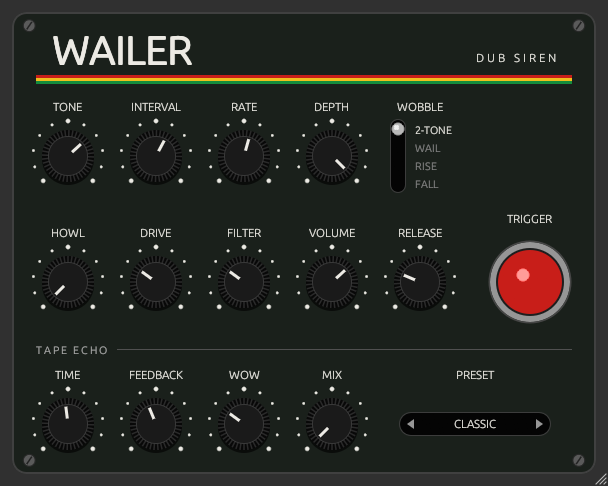
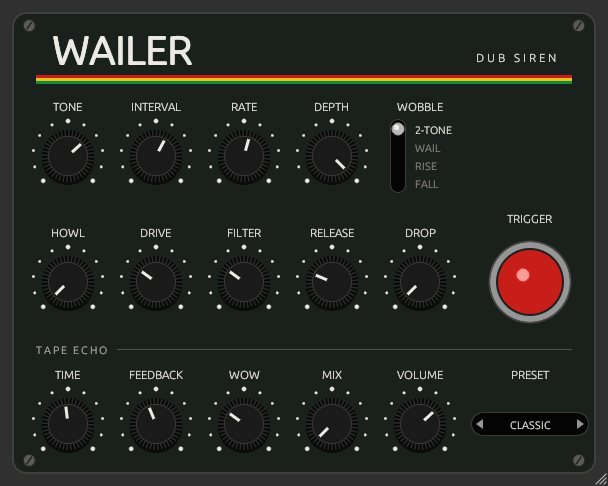
Add Drop: pitch glides down over the release
Volume moves after the echo and to the bottom row to make room.

diff --git a/src/lib.rs b/src/lib.rs
@@ -7,8 +7,10 @@
 //!    loop squeals on its own as Howl goes up.
 //! 3. Drive stage borrowed from Rodent: LM308 RAT gain stage (bandwidth + slew limited, rail
 //!    clipping) into a 1N914 diode clipper, then the RAT's passive filter.
-//! 4. Gate envelope and volume. MIDI notes or the Trigger button open the gate.
+//! 4. Gate envelope. MIDI notes or the Trigger button open the gate; on release the pitch can
+//!    glide down by Drop semitones over the Release time.
 //! 5. Tape echo, Space Echo style: darkening, saturating repeats that run away past 100% feedback.
+//! 6. Volume.
 //!
 //! Oscillator and drive stage run at 4x oversampling to keep aliasing down.
 
@@ -96,6 +98,7 @@ struct Preset {
     filter: f32,
     volume_db: f32,
     release: f32,
+    drop: f32,
     echo_time: f32,
     echo_feedback: f32,
     echo_wow: f32,
@@ -107,19 +110,19 @@ struct Preset {
 #[rustfmt::skip]
 const PRESETS: &[Preset] = &[
     Preset { name: "Classic",      tone:  700.0, interval:   5.0, rate:  3.00, depth: 1.0, shape: Shape::Square,   howl: 0.00, drive: 0.30, filter: 0.30,
-             volume_db:  0.0, release: 0.03, echo_time: 0.375, echo_feedback: 0.50, echo_wow: 0.3, echo_mix: 0.0 },
+             volume_db:  0.0, release: 0.03, drop:  0.0, echo_time: 0.375, echo_feedback: 0.50, echo_wow: 0.3, echo_mix: 0.0 },
     Preset { name: "Sound System", tone:  650.0, interval:   7.0, rate:  2.50, depth: 1.0, shape: Shape::Square,   howl: 0.10, drive: 0.40, filter: 0.35,
-             volume_db:  0.0, release: 0.60, echo_time: 0.375, echo_feedback: 0.65, echo_wow: 0.3, echo_mix: 0.6 },
+             volume_db:  0.0, release: 0.60, drop:  0.0, echo_time: 0.375, echo_feedback: 0.65, echo_wow: 0.3, echo_mix: 0.6 },
     Preset { name: "Police Wail",  tone:  600.0, interval:  12.0, rate:  0.50, depth: 1.0, shape: Shape::Triangle, howl: 0.00, drive: 0.20, filter: 0.20,
-             volume_db: -0.5, release: 0.30, echo_time: 0.300, echo_feedback: 0.40, echo_wow: 0.2, echo_mix: 0.4 },
+             volume_db: -0.5, release: 0.30, drop:  0.0, echo_time: 0.300, echo_feedback: 0.40, echo_wow: 0.2, echo_mix: 0.4 },
     Preset { name: "Laser",        tone: 1800.0, interval: -24.0, rate: 12.00, depth: 1.0, shape: Shape::Fall,     howl: 0.00, drive: 0.50, filter: 0.10,
-             volume_db: -1.0, release: 0.15, echo_time: 0.250, echo_feedback: 0.60, echo_wow: 0.3, echo_mix: 0.5 },
+             volume_db: -1.0, release: 0.15, drop: 24.0, echo_time: 0.250, echo_feedback: 0.60, echo_wow: 0.3, echo_mix: 0.5 },
     Preset { name: "Rising Howl",  tone:  400.0, interval:  12.0, rate:  0.80, depth: 1.0, shape: Shape::Rise,     howl: 0.75, drive: 0.60, filter: 0.40,
-             volume_db:  1.0, release: 1.00, echo_time: 0.500, echo_feedback: 0.70, echo_wow: 0.4, echo_mix: 0.5 },
+             volume_db:  1.0, release: 1.00, drop:  0.0, echo_time: 0.500, echo_feedback: 0.70, echo_wow: 0.4, echo_mix: 0.5 },
     Preset { name: "Dread Drop",   tone: 1200.0, interval: -19.0, rate:  0.35, depth: 1.0, shape: Shape::Fall,     howl: 0.20, drive: 0.70, filter: 0.50,
-             volume_db:  0.5, release: 2.00, echo_time: 0.600, echo_feedback: 0.85, echo_wow: 0.5, echo_mix: 0.6 },
+             volume_db:  0.5, release: 2.00, drop: 24.0, echo_time: 0.600, echo_feedback: 0.85, echo_wow: 0.5, echo_mix: 0.6 },
     Preset { name: "Runaway",      tone:  900.0, interval:   5.0, rate:  6.00, depth: 1.0, shape: Shape::Square,   howl: 0.30, drive: 0.50, filter: 0.30,
-             volume_db:  0.5, release: 0.30, echo_time: 0.200, echo_feedback: 1.10, echo_wow: 0.6, echo_mix: 0.7 },
+             volume_db:  0.5, release: 0.30, drop:  0.0, echo_time: 0.200, echo_feedback: 1.10, echo_wow: 0.6, echo_mix: 0.7 },
 ];
 
 /// Topology-preserving one-pole filter, gives both low-pass and high-pass outputs.
@@ -234,6 +237,8 @@ fn release_coeff(secs: f32, fs: f32) -> f32 {
 struct Settings {
     tone: f32,
     interval: f32,
+    /// Semitones below the wobbling pitch, from Drop
+    bend: f32,
     rate: f32,
     depth: f32,
     shape: Shape,
@@ -246,6 +251,7 @@ struct Settings {
 struct Coeffs {
     tone: f32,
     interval: f32,
+    bend: f32,
     lfo_step: f32,
     depth: f32,
     shape: Shape,
@@ -275,6 +281,7 @@ impl Coeffs {
         Self {
             tone: s.tone,
             interval: s.interval,
+            bend: s.bend,
             lfo_step: s.rate / fs,
             depth: s.depth,
             shape: s.shape,
@@ -324,7 +331,7 @@ impl Voice {
     fn process(&mut self, c: &Coeffs) -> f32 {
         let pos = c.shape.at(self.lfo_phase) * c.depth;
         self.lfo_phase = (self.lfo_phase + c.lfo_step).fract();
-        let freq = c.tone * 2f32.powf(c.interval * pos / 12.0);
+        let freq = c.tone * 2f32.powf((c.interval * pos - c.bend) / 12.0);
         let dt = (freq / c.fs_os).min(0.5);
 
         let mut out = 0.0;
@@ -418,6 +425,8 @@ struct Wailer {
     notes: u8,
     gate: bool,
     env: f32,
+    /// 0 while the gate is open, ramps to 1 over the Release time after it closes
+    drop_pos: f32,
 }
 
 #[derive(Params)]
@@ -448,6 +457,8 @@ struct WailerParams {
     volume: FloatParam,
     #[id = "release"]
     release: FloatParam,
+    #[id = "drop"]
+    drop: FloatParam,
     #[id = "echo-time"]
     echo_time: FloatParam,
     #[id = "echo-feedback"]
@@ -461,7 +472,7 @@ struct WailerParams {
 impl WailerParams {
     /// Every float param paired with its value in `preset`, shared by the GUI's preset matching
     /// and applying and by the tests.
-    fn preset_values(&self, p: &Preset) -> [(&FloatParam, f32); 13] {
+    fn preset_values(&self, p: &Preset) -> [(&FloatParam, f32); 14] {
         [
             (&self.tone, p.tone),
             (&self.interval, p.interval),
@@ -472,6 +483,7 @@ impl WailerParams {
             (&self.filter, p.filter),
             (&self.volume, util::db_to_gain(p.volume_db)),
             (&self.release, p.release),
+            (&self.drop, p.drop),
             (&self.echo_time, p.echo_time),
             (&self.echo_feedback, p.echo_feedback),
             (&self.echo_wow, p.echo_wow),
@@ -551,6 +563,17 @@ impl Default for WailerParams {
             )
             .with_unit(" s")
             .with_value_to_string(formatters::v2s_f32_rounded(2)),
+            // Off by default so projects from before Drop sound the same
+            drop: FloatParam::new(
+                "Drop",
+                0.0,
+                FloatRange::Linear {
+                    min: 0.0,
+                    max: 36.0,
+                },
+            )
+            .with_unit(" st")
+            .with_value_to_string(formatters::v2s_f32_rounded(1)),
             echo_time: FloatParam::new(
                 "Echo Time",
                 0.375,
@@ -590,6 +613,7 @@ impl Default for Wailer {
             notes: 0,
             gate: false,
             env: 0.0,
+            drop_pos: 0.0,
         }
     }
 }
@@ -646,6 +670,7 @@ impl Plugin for Wailer {
         self.notes = 0;
         self.gate = false;
         self.env = 0.0;
+        self.drop_pos = 0.0;
     }
 
     fn process(
@@ -677,9 +702,23 @@ impl Plugin for Wailer {
             }
             self.gate = gate;
 
+            let release = p.release.value();
+            self.env = env_step(
+                self.env,
+                gate,
+                attack,
+                release_coeff(release, self.sample_rate),
+            );
+            self.drop_pos = if gate {
+                0.0
+            } else {
+                (self.drop_pos + 1.0 / (release * self.sample_rate)).min(1.0)
+            };
+
             let settings = Settings {
                 tone: p.tone.smoothed.next(),
                 interval: p.interval.smoothed.next(),
+                bend: p.drop.value() * self.drop_pos,
                 rate: p.rate.smoothed.next(),
                 depth: p.depth.smoothed.next(),
                 shape: p.shape.value(),
@@ -687,15 +726,11 @@ impl Plugin for Wailer {
                 drive: p.drive.smoothed.next(),
                 filter: p.filter.smoothed.next(),
             };
-            let volume = p.volume.smoothed.next();
-            let release = release_coeff(p.release.value(), self.sample_rate);
-            self.env = env_step(self.env, gate, attack, release);
 
             // Keep running while silent so the howl loop and filters stay warm
             let dry = self
                 .voice
                 .process(&Coeffs::new(&settings, self.sample_rate))
-                * volume
                 * self.env;
             // Like a mixer send: the dry siren stays at full level, Mix adds the repeats
             let wet = self.echo.process(
@@ -704,7 +739,8 @@ impl Plugin for Wailer {
                 p.echo_feedback.smoothed.next(),
                 p.echo_wow.smoothed.next(),
             );
-            let y = dry + p.echo_mix.smoothed.next() * wet;
+            // Volume after the echo, so it doesn't change how hard the echo saturates
+            let y = (dry + p.echo_mix.smoothed.next() * wet) * p.volume.smoothed.next();
             for sample in frame.iter_mut() {
                 *sample = y;
             }
@@ -746,6 +782,7 @@ mod tests {
         Settings {
             tone: 700.0,
             interval: 5.0,
+            bend: 0.0,
             rate: 3.0,
             depth: 1.0,
             shape: Shape::Square,
@@ -846,6 +883,21 @@ mod tests {
         assert!(start > 1.5 * end, "fall {start} -> {end}");
         let (start, end) = sweep(Shape::Triangle);
         assert!((start / end - 1.0).abs() < 0.1, "wail {start} -> {end}");
+    }
+
+    #[test]
+    fn bend_drops_the_pitch() {
+        // Drop at full travel: 12 semitones under tone A is half the frequency
+        let s = Settings {
+            tone: 500.0,
+            bend: 12.0,
+            depth: 0.0,
+            drive: 0.0,
+            filter: 0.0,
+            ..settings()
+        };
+        let f = freq(&render(&s, FS, 1.0), FS);
+        assert!((f - 250.0).abs() < 5.0, "{f}");
     }
 
     #[test]
@@ -954,6 +1006,7 @@ mod tests {
             let s = Settings {
                 tone: p.tone,
                 interval: p.interval,
+                bend: 0.0,
                 rate: p.rate,
                 depth: p.depth,
                 shape: p.shape,

diff --git a/src/editor.rs b/src/editor.rs
@@ -127,8 +127,8 @@ fn siren_box(ui: &Ui, setter: &ParamSetter, params: &WailerParams) {
                 (&params.howl, "HOWL"),
                 (&params.drive, "DRIVE"),
                 (&params.filter, "FILTER"),
-                (&params.volume, "VOLUME"),
                 (&params.release, "RELEASE"),
+                (&params.drop, "DROP"),
             ],
         ),
         (
@@ -138,6 +138,7 @@ fn siren_box(ui: &Ui, setter: &ParamSetter, params: &WailerParams) {
                 (&params.echo_feedback, "FEEDBACK"),
                 (&params.echo_wow, "WOW"),
                 (&params.echo_mix, "MIX"),
+                (&params.volume, "VOLUME"),
             ],
         ),
     ];
@@ -165,7 +166,7 @@ fn siren_box(ui: &Ui, setter: &ParamSetter, params: &WailerParams) {
     );
 
     shape_switch(ui, setter, &params.shape, Pos2::new(col(4), row1));
-    preset_selector(ui, setter, params, Pos2::new((col(4) + right) / 2.0, row3));
+    preset_selector(ui, setter, params, Pos2::new(right, row3));
     trigger(ui, setter, &params.trigger, Pos2::new(right, row2));
 }
 
@@ -414,8 +415,8 @@ fn apply_preset(setter: &ParamSetter, params: &WailerParams, preset: &Preset) {
 
 /// `‹ NAME ›` selector. Shows "CUSTOM" once the knobs no longer match a preset.
 fn preset_selector(ui: &Ui, setter: &ParamSetter, params: &WailerParams, center: Pos2) {
-    let slot = Rect::from_center_size(center, Vec2::new(150.0, 22.0));
-    let arrow_size = Vec2::new(22.0, slot.height());
+    let slot = Rect::from_center_size(center, Vec2::new(116.0, 22.0));
+    let arrow_size = Vec2::new(16.0, slot.height());
     let prev_rect = Rect::from_min_size(slot.left_top(), arrow_size);
     let next_rect =
         Rect::from_min_size(slot.right_top() - Vec2::new(arrow_size.x, 0.0), arrow_size);
@@ -477,7 +478,7 @@ fn preset_selector(ui: &Ui, setter: &ParamSetter, params: &WailerParams, center:
         slot.center(),
         Align2::CENTER_CENTER,
         name,
-        FontId::proportional(12.0),
+        FontId::proportional(11.0),
         color,
     );
     p.text(

diff --git a/README.md b/README.md
@@ -22,12 +22,13 @@ instrument: hold a MIDI note or the Trigger button to sound it.
 | Howl         | 0–100% feedback around the drive stage; squeals past ~70%    |
 | Drive        | 0–100%, clean → screaming (RAT gain stage + diode clipper)   |
 | Filter       | 0–100% (clockwise = darker)                                  |
-| Volume       | −30 to +12 dB                                                |
 | Release      | 0.01–5 s tail after you let go (time to fall 60 dB)          |
+| Drop         | 0–36 semitones the pitch glides down over the Release time   |
 | Echo Time    | 50 ms–1.5 s; glides, so turning it bends the repeats' pitch  |
 | Echo Feedback| 0–120%; past 100% the repeats run away (saturated, never blow up) |
 | Echo Wow     | 0–100% tape wow (up to ±2 ms)                                |
 | Echo Mix     | 0–100% repeats added on top of the dry siren (off by default) |
+| Volume       | −30 to +12 dB output level (after the echo)                  |
 | Preset       | ‹ › steps through 7 level-matched factory presets; shows CUSTOM once you tweak |
 
 Presets: Classic (dry two-tone, the default), Sound System, Police Wail, Laser, Rising Howl,

diff --git a/CLAUDE.md b/CLAUDE.md
@@ -29,7 +29,9 @@ cargo clippy --release --lib
 - Howl feeds the clipped signal back through a 300 Hz–3 kHz band-pass. The high-pass part is what keeps the
   loop from latching to DC (`howl_changes_the_sound` checks this).
 - Gate = held MIDI notes or the `trigger` param. A rising edge restarts the LFO. `env_step` is a linear 3 ms
-  attack and an exponential release (`release` param = time to -60 dB), snapping to 0 below -100 dB. The voice keeps running while
+  attack and an exponential release (`release` param = time to -60 dB), snapping to 0 below -100 dB. `drop_pos`
+  ramps 0→1 linearly over the same Release time after the gate closes; `Settings::bend` = Drop × `drop_pos`
+  semitones below the wobbling pitch. Volume is applied last, after the echo. The voice keeps running while
   the gate is closed so the release tail and filter states stay clean.
 - `Echo` runs after the gate envelope and keeps running when the gate is closed, so repeats ring out. Its buffer
   is allocated in `initialize()` (never in `process()`/`reset()`, which only clears it). Echo Time has a slow

diff --git a/CHANGELOG.md b/CHANGELOG.md
@@ -6,6 +6,14 @@ All notable changes to this project are documented here. The format follows
 
 ## [Unreleased]
 
+### Added
+- Drop knob (0–36 semitones): the pitch glides down over the Release time after you let go, for the
+  classic "pew" ending. Off by default; the Laser and Dread Drop presets now use it.
+
+### Changed
+- Volume now comes after the echo, so it no longer changes how hard the echo saturates. Volume moved to
+  the bottom row to make room for Drop.
+
 ## [0.5.0] - 2026-10-23
 
 ### Added
